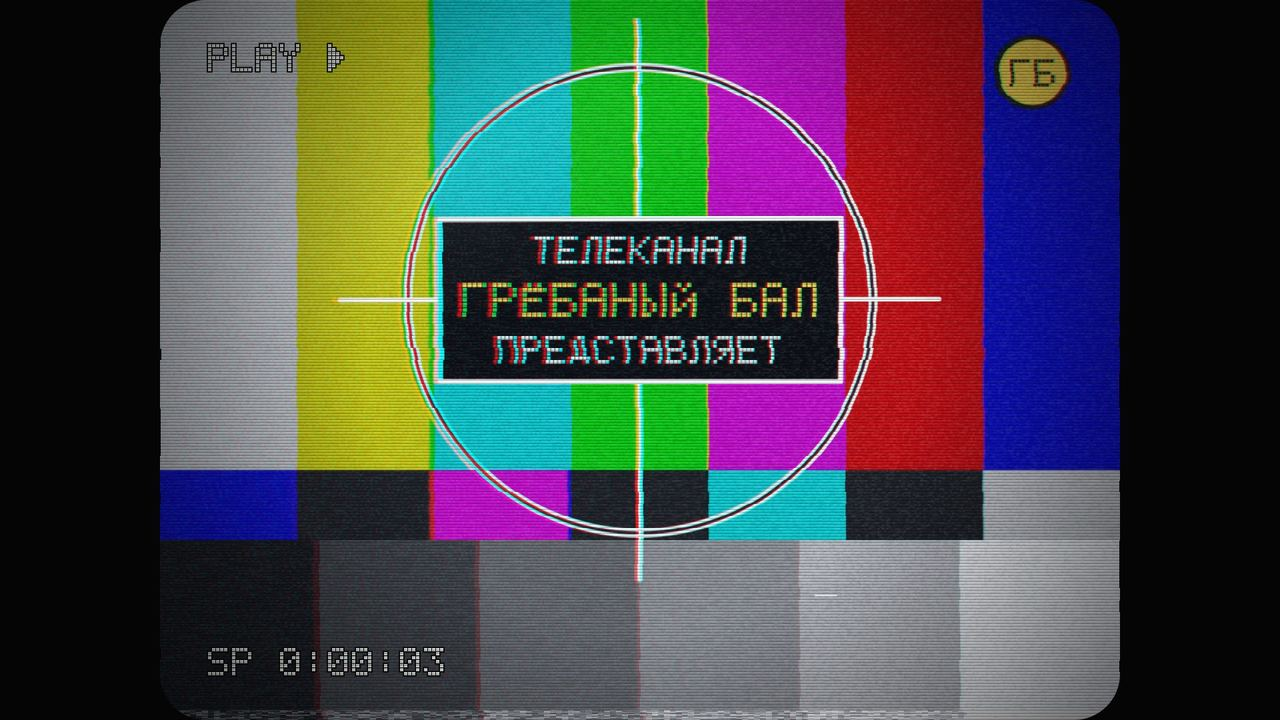
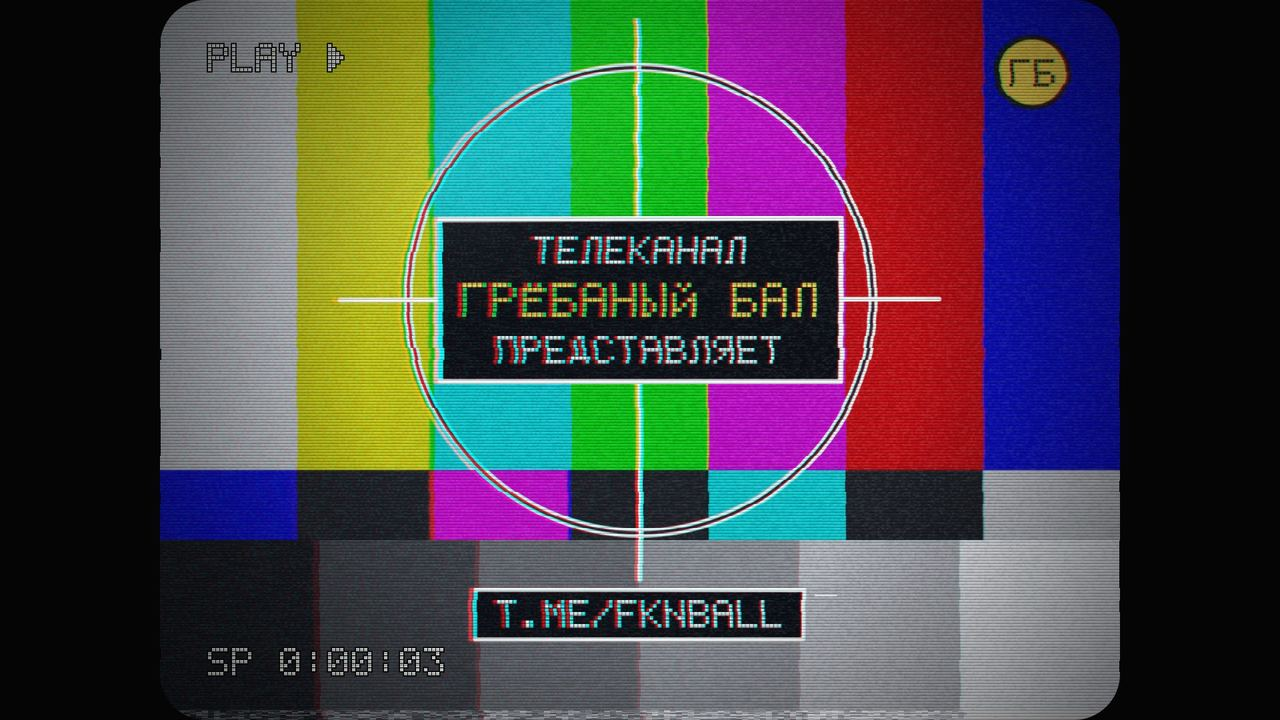
feat: the channel's address on the test card — t.me/fknball
Claude-Session: https://claude.ai/code/session_01MZoAKCKwqeVGKcCw6iKKPs

Changed region(s): [[0.3438, 0.7944, 0.6562, 0.9167]]

diff --git a/src/clip/shared/tape/test-card.ts b/src/clip/shared/tape/test-card.ts
@@ -9,6 +9,22 @@ const STRIP_DOWN = 540;
 // The channel's ident, top line first; the middle one is its name.
 const IDENT = ['ТЕЛЕКАНАЛ', 'ГРЁБАНЫЙ БАЛ', 'ПРЕДСТАВЛЯЕТ'] as const;
 const PLATE = { halfWidth: 200, halfHeight: 82, lineGap: 50 } as const;
+// Where the channel is found, printed on the grey ramp under the ident.
+const ADDRESS = 'T.ME/FKNBALL';
+const ADDRESS_PLATE = {
+  halfWidth: 164,
+  top: 590,
+  bottom: 638,
+  dot: 4,
+} as const;
+
+const box = (cx: number, halfWidth: number, top: number, bottom: number) =>
+  polygon([
+    [cx - halfWidth, top],
+    [cx + halfWidth, top],
+    [cx + halfWidth, bottom],
+    [cx - halfWidth, bottom],
+  ]);
 
 /**
  * Channel «ГБ»'s test card, a broadcast scene: colour bars, the mirrored
@@ -64,19 +80,26 @@ export function testCard(pen: Pen, lines: number = IDENT.length): void {
   );
   ink(
     pen,
-    polygon([
-      [cx - PLATE.halfWidth, cy - PLATE.halfHeight],
-      [cx + PLATE.halfWidth, cy - PLATE.halfHeight],
-      [cx + PLATE.halfWidth, cy + PLATE.halfHeight],
-      [cx - PLATE.halfWidth, cy + PLATE.halfHeight],
-    ]),
+    box(cx, PLATE.halfWidth, cy - PLATE.halfHeight, cy + PLATE.halfHeight),
     { fill: TAPE_PALETTE.black, stroke: TAPE_PALETTE.white, width: 5, seed: 4 },
   );
+  const { halfWidth, top, bottom, dot } = ADDRESS_PLATE;
+  ink(pen, box(cx, halfWidth, top, bottom), {
+    fill: TAPE_PALETTE.black,
+    stroke: TAPE_PALETTE.white,
+    width: 4,
+    seed: 5,
+  });
+  dotText(pen, ADDRESS, [cx, (top + bottom) / 2 - dot * 3.5], {
+    dot,
+    color: TAPE_PALETTE.white,
+    align: 'center',
+  });
   for (const [n, line] of IDENT.slice(0, lines).entries()) {
     const name = n === 1;
-    const dot = name ? 5 : 4;
-    dotText(pen, line, [cx, cy + (n - 1) * PLATE.lineGap - dot * 3.5], {
-      dot,
+    const size = name ? 5 : 4;
+    dotText(pen, line, [cx, cy + (n - 1) * PLATE.lineGap - size * 3.5], {
+      dot: size,
       color: name ? TAPE_PALETTE.bugDisc : TAPE_PALETTE.white,
       align: 'center',
     });

diff --git a/src/clip/shared/tape/glyphs.test.ts b/src/clip/shared/tape/glyphs.test.ts
@@ -41,7 +41,7 @@ describe('glyph', () => {
   });
 
   it('writes the channel ident', () => {
-    for (const char of 'ТЕЛЕКАНАЛ ГРЁБАНЫЙ БАЛ ПРЕДСТАВЛЯЕТ')
+    for (const char of 'ТЕЛЕКАНАЛ ГРЁБАНЫЙ БАЛ ПРЕДСТАВЛЯЕТ T.ME/FKNBALL')
       assert.ok(glyph(char).length > 0 || char === ' ', char);
     assert.notDeepEqual(glyph('Ё'), glyph('Е'));
     assert.notDeepEqual(glyph('Й'), glyph('И'));

diff --git a/src/clip/shared/tape/glyphs.ts b/src/clip/shared/tape/glyphs.ts
@@ -20,6 +20,7 @@ const FACE: Readonly<Record<string, string>> = {
   ':': '..... ..#.. ..#.. ..... ..#.. ..#.. .....',
   '.': '..... ..... ..... ..... ..... .##.. .##..',
   '-': '..... ..... ..... ##### ..... ..... .....',
+  '/': '....# ....# ...#. ..#.. .#... #.... #....',
   '►': '#.... ##... ###.. ####. ###.. ##... #....',
   '●': '..... .###. ##### ##### ##### .###. .....',
   A: '.###. #...# #...# ##### #...# #...# #...#',
